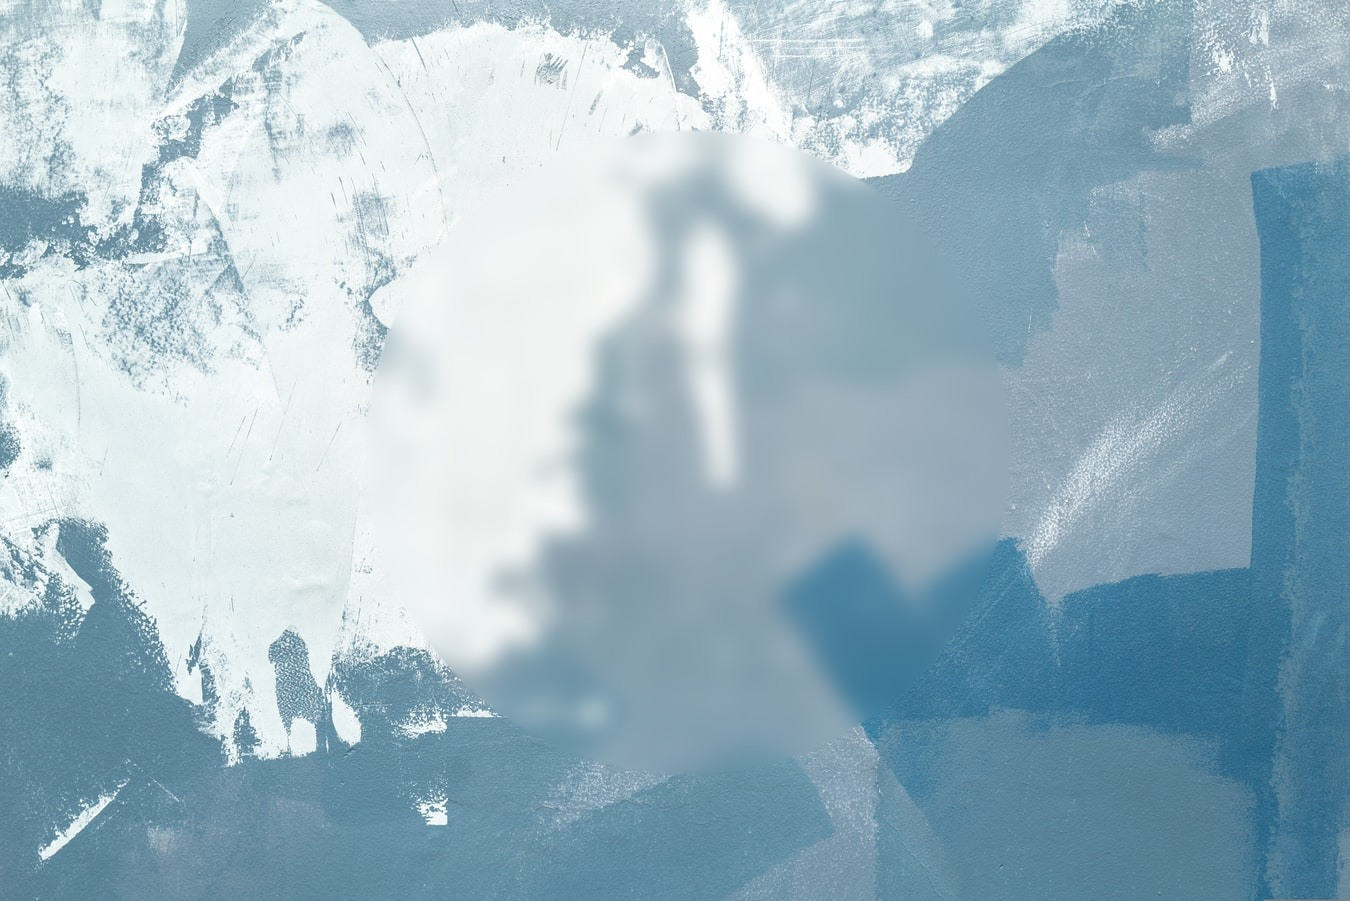
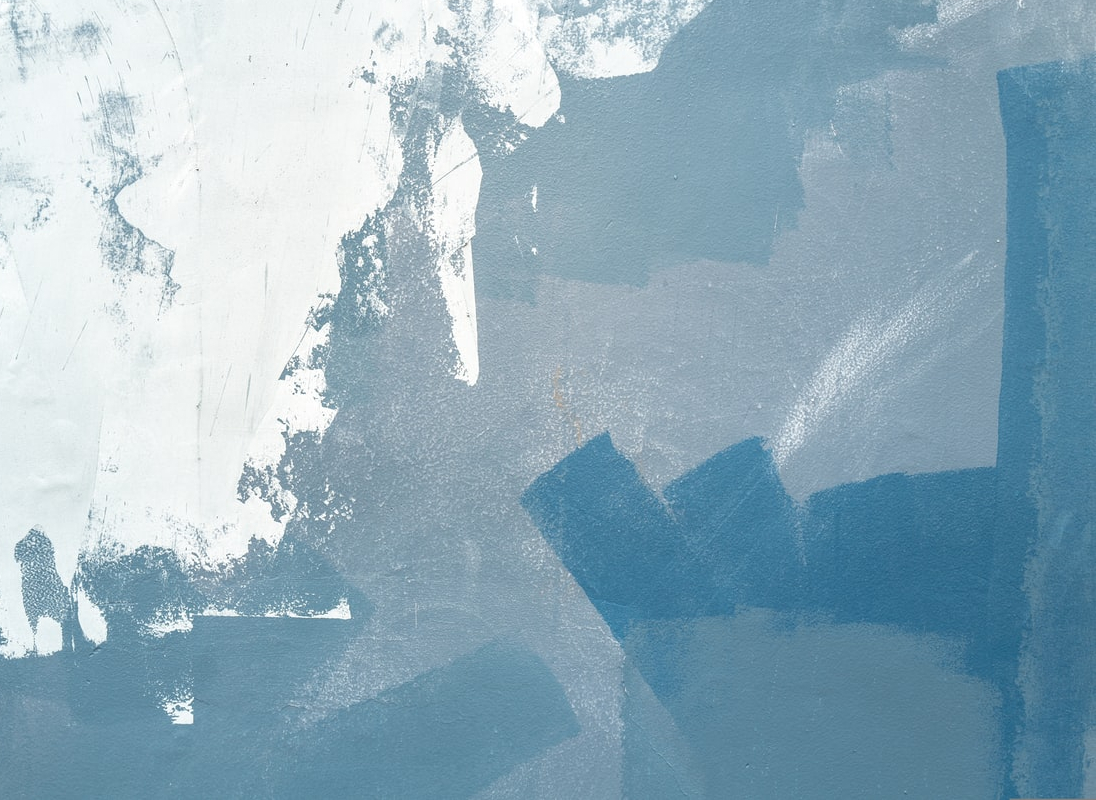
new wall

diff --git a/css/style.css b/css/style.css
@@ -101,7 +101,7 @@ h1, h2, h3, h4, h5, h6, figure {
   left: 0;
   right: 0;
   background: rgba(24, 26, 151, 0.9);
-  background-image: url(../images/new-wall-3.jpg);
+  background-image: url(../images/new-wall.jpg);
   /* background-image: url(../images/wall-fib.jpg); */
   
   /* background-position: center; */
